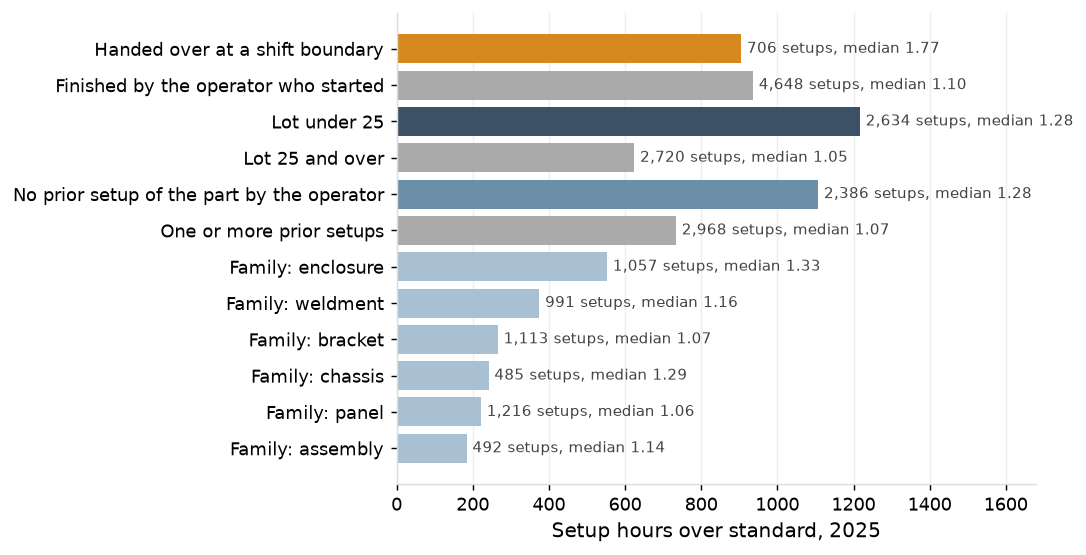
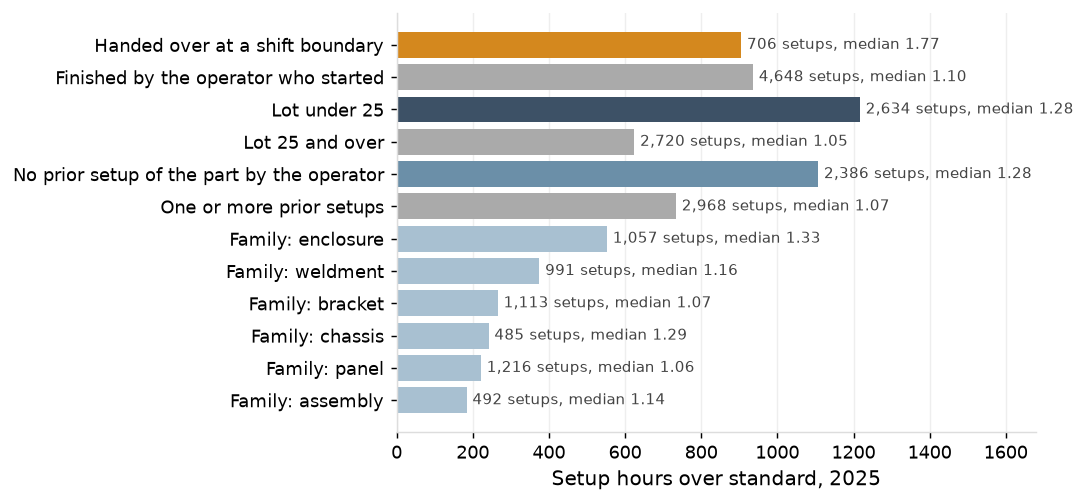
P4 setups: A3 figure heights and the tenure figure on the A3

diff --git a/docs/a3/p4_setups.html b/docs/a3/p4_setups.html
@@ -53,7 +53,7 @@ nav.toc a { color: var(--accent); text-decoration: none; margin-right: 14px; }
 <header class="doc"><div class="kicker">Project 4 A3</div><h1>Setups and standards</h1><div class="meta">Custom sheet-metal fabrication job shop, about 120 employees, one plant. Setups and operations started in 2025; records from January 2023 to December 2025.<br>Sources: ERP routings and job operations, shop-floor data collection and attendance exports (batch 20261003T152921Z-20250101). Hours are machine hours.</div></header>
 <div class="grid"><div><section><h2>Background and problem</h2><p>Brake setups ran 1,842 hours over standard in 2025: 35 hours a week and 11% of brake machine time.<br>The median setup runs at 1.16 of standard and the 90th percentile at 2.07; the ratios are the same in the first quarter and in Q2 to Q4.</p></section>
 <section><h2>Current condition</h2><img alt="Brake setup overrun hours by condition" src="../figures/p4_a3_overrun_by_condition.png"><div class='caption'>Brake setup hours over standard by condition, 2025, with setup counts and median ratios; the conditions overlap.</div></section>
-<section><h2>Target</h2><p>Brake setup hours under 104 a week, from 117 in 2025. Measured levers: top 12 part-operations at standard 7.3 hours a week; repeat setups assigned to an operator who has set the part up 4.4; shift-handover standard 1.2; 12.9 in all.</p></section></div><div><section><h2>Analysis</h2><img alt="Tenure effect on brake setup ratio as controls are added" src="../figures/p4_tenure_decomposition.png"><div class='caption'>Brake setup ratio of operators with under 12 months over tenured operators as controls are added.</div><ul><li>Handed-over setups are 13% of setups and 49% of the overrun (median 1.77 against 1.10); the handover itself costs 1.2 hours a week, the rest is long setups reaching the shift end.</li><li>Lots under 25 are 49% of setups and 66% of the overrun (median 1.28).</li><li>New operators run 16% above tenured before controls and 5% after.</li><li>38% of setups are grouped on the same tooling set and run at 0.92 against 1.33.</li><li>The top 12 part-operations release 7.3 hours a week at standard; the overrun is spread across 1,980 part-operations.</li></ul></section>
+<section><h2>Target</h2><p>Brake setup hours under 104 a week, from 117 in 2025. Measured levers: top 12 part-operations at standard 7.3 hours a week; repeat setups assigned to an operator who has set the part up 4.4; shift-handover standard 1.2; 12.9 in all.</p></section></div><div><section><h2>Analysis</h2><img alt="Tenure effect on brake setup ratio as controls are added" src="../figures/p4_a3_tenure_decomposition.png"><div class='caption'>Brake setup ratio of operators with under 12 months over tenured operators as controls are added.</div><ul><li>Handed-over setups are 13% of setups and 49% of the overrun (median 1.77 against 1.10); the handover itself costs 1.2 hours a week, the rest is long setups reaching the shift end.</li><li>Lots under 25 are 49% of setups and 66% of the overrun (median 1.28).</li><li>New operators run 16% above tenured before controls and 5% after.</li><li>38% of setups are grouped on the same tooling set and run at 0.92 against 1.33.</li><li>The top 12 part-operations release 7.3 hours a week at standard; the overrun is spread across 1,980 part-operations.</li></ul></section>
 <section><h2>Countermeasures</h2><table class="data"><thead><tr><th>Action</th><th>Owner</th><th>When</th></tr></thead><tbody><tr><td class="">Setup reduction on the top 12 part-operations</td><td class="">Brake supervisor, manufacturing engineering</td><td class="">May 2026</td></tr><tr><td class="">Assign repeat setups to an operator who has set the part up before</td><td class="">Brake supervisor</td><td class="">February 2026</td></tr><tr><td class="">Shift-handover standard at the brakes: the starting operator finishes the setup, or a written handover at the machine</td><td class="">Brake supervisor</td><td class="">February 2026</td></tr><tr><td class="">Correct the setup standard on lots under 25 pieces</td><td class="">Manufacturing engineering</td><td class="">March 2026</td></tr><tr><td class="">Refresh the stale standards and set the newer lasers' run standards to measured</td><td class="">Manufacturing engineering, estimating</td><td class="">April 2026</td></tr></tbody></table></section>
 <section><h2>Results</h2><p>Measured baseline for 2025: 6,077 brake setup hours against 4,235 standard. Measured potential: 12.9 brake hours a week from the three capacity levers, 4.1% of brake machine time. P8 carries the hours released.</p></section>
 <section><h2>Follow-up</h2><p>Weekly brake setup hours, and setup overrun hours by condition once the standards are corrected, on the operations dashboard.</p></section></div></div>

diff --git a/analytics/p4_setups/build.py b/analytics/p4_setups/build.py
@@ -76,8 +76,8 @@ def fig_conditions(name="p4_overrun_by_condition", h=4.6):
     return save(f, name, "Brake setup overrun hours by condition")
 
 
-def fig_tenure():
-    f, ax = fig(h=3.0)
+def fig_tenure(name="p4_tenure_decomposition", h=3.0):
+    f, ax = fig(h=h)
     lab = ["Tenure only", "+ familiarity", "+ grouping", "+ machine", "+ lot size, bends,\nshift handover"]
     v = TM["tenure_effect_pct"].to_numpy() * 100
     ax.bar(lab, v, color=[BRAND_BLUE] + [ACCENT] * 3 + [LIGHT_BLUE])
@@ -86,7 +86,7 @@ def fig_tenure():
     ax.set_ylabel("New operators over tenured (%)")
     ax.set_ylim(0, v.max() * 1.2)
     f.tight_layout()
-    return save(f, "p4_tenure_decomposition", "Tenure effect on brake setup ratio as controls are added")
+    return save(f, name, "Tenure effect on brake setup ratio as controls are added")
 
 
 def fig_grouping():
@@ -384,14 +384,14 @@ def a3():
     left.append(f"<section><h2>Background and problem</h2><p>Brake setups ran {n0(y['overrun_hours'])} hours over standard in {YEAR}: {n0(ST['brake_overrun_per_week'])} "
                 f"hours a week and {pct(ST['brake_overrun_per_week'] / MH_WEEK, 0)} of brake machine time.<br>The median setup runs at {d2(y['median_ratio'])} of standard "
                 f"and the 90th percentile at {d2(y['p90_ratio'])}; the ratios are the same in the first quarter and in {REST}.</p></section>")
-    left.append(f"<section><h2>Current condition</h2>{fig_conditions('p4_a3_overrun_by_condition', 4.4)}"
+    left.append(f"<section><h2>Current condition</h2>{fig_conditions('p4_a3_overrun_by_condition', 4.0)}"
                 f"<div class='caption'>Brake setup hours over standard by condition, {YEAR}, with setup counts and median ratios; the conditions overlap.</div></section>")
     wk = y["setup_hours"] / A.WEEKS
     left.append(f"<section><h2>Target</h2><p>Brake setup hours under {n0(wk - LEVERS)} a week, from {n0(wk)} in {YEAR}. Measured levers: top {A.TOP_N} "
                 f"part-operations at standard {d1(ST['top_hours_per_week'])} hours a week; repeat setups assigned to an operator who has set the part up "
                 f"{d1(ASG_ANY['hours_released_per_week'])}; shift-handover standard {d1(cf_start['hours_per_week'])}; {d1(LEVERS)} in all.</p></section>")
     right.append(
-        f"<section><h2>Analysis</h2>{fig_tenure()}<div class='caption'>Brake setup ratio of operators with under 12 months over tenured operators as controls are "
+        f"<section><h2>Analysis</h2>{fig_tenure('p4_a3_tenure_decomposition', 2.3)}<div class='caption'>Brake setup ratio of operators with under 12 months over tenured operators as controls are "
         f"added.</div><ul>"
         f"<li>Handed-over setups are {pct(ho['share_of_setups'], 0)} of setups and {pct(ho['share_of_overrun'], 0)} of the overrun (median {d2(ho['median_ratio'])} "
         f"against {d2(nho['median_ratio'])}); the handover itself costs {d1(cf_start['hours_per_week'])} hours a week, the rest is long setups reaching the shift end.</li>"
